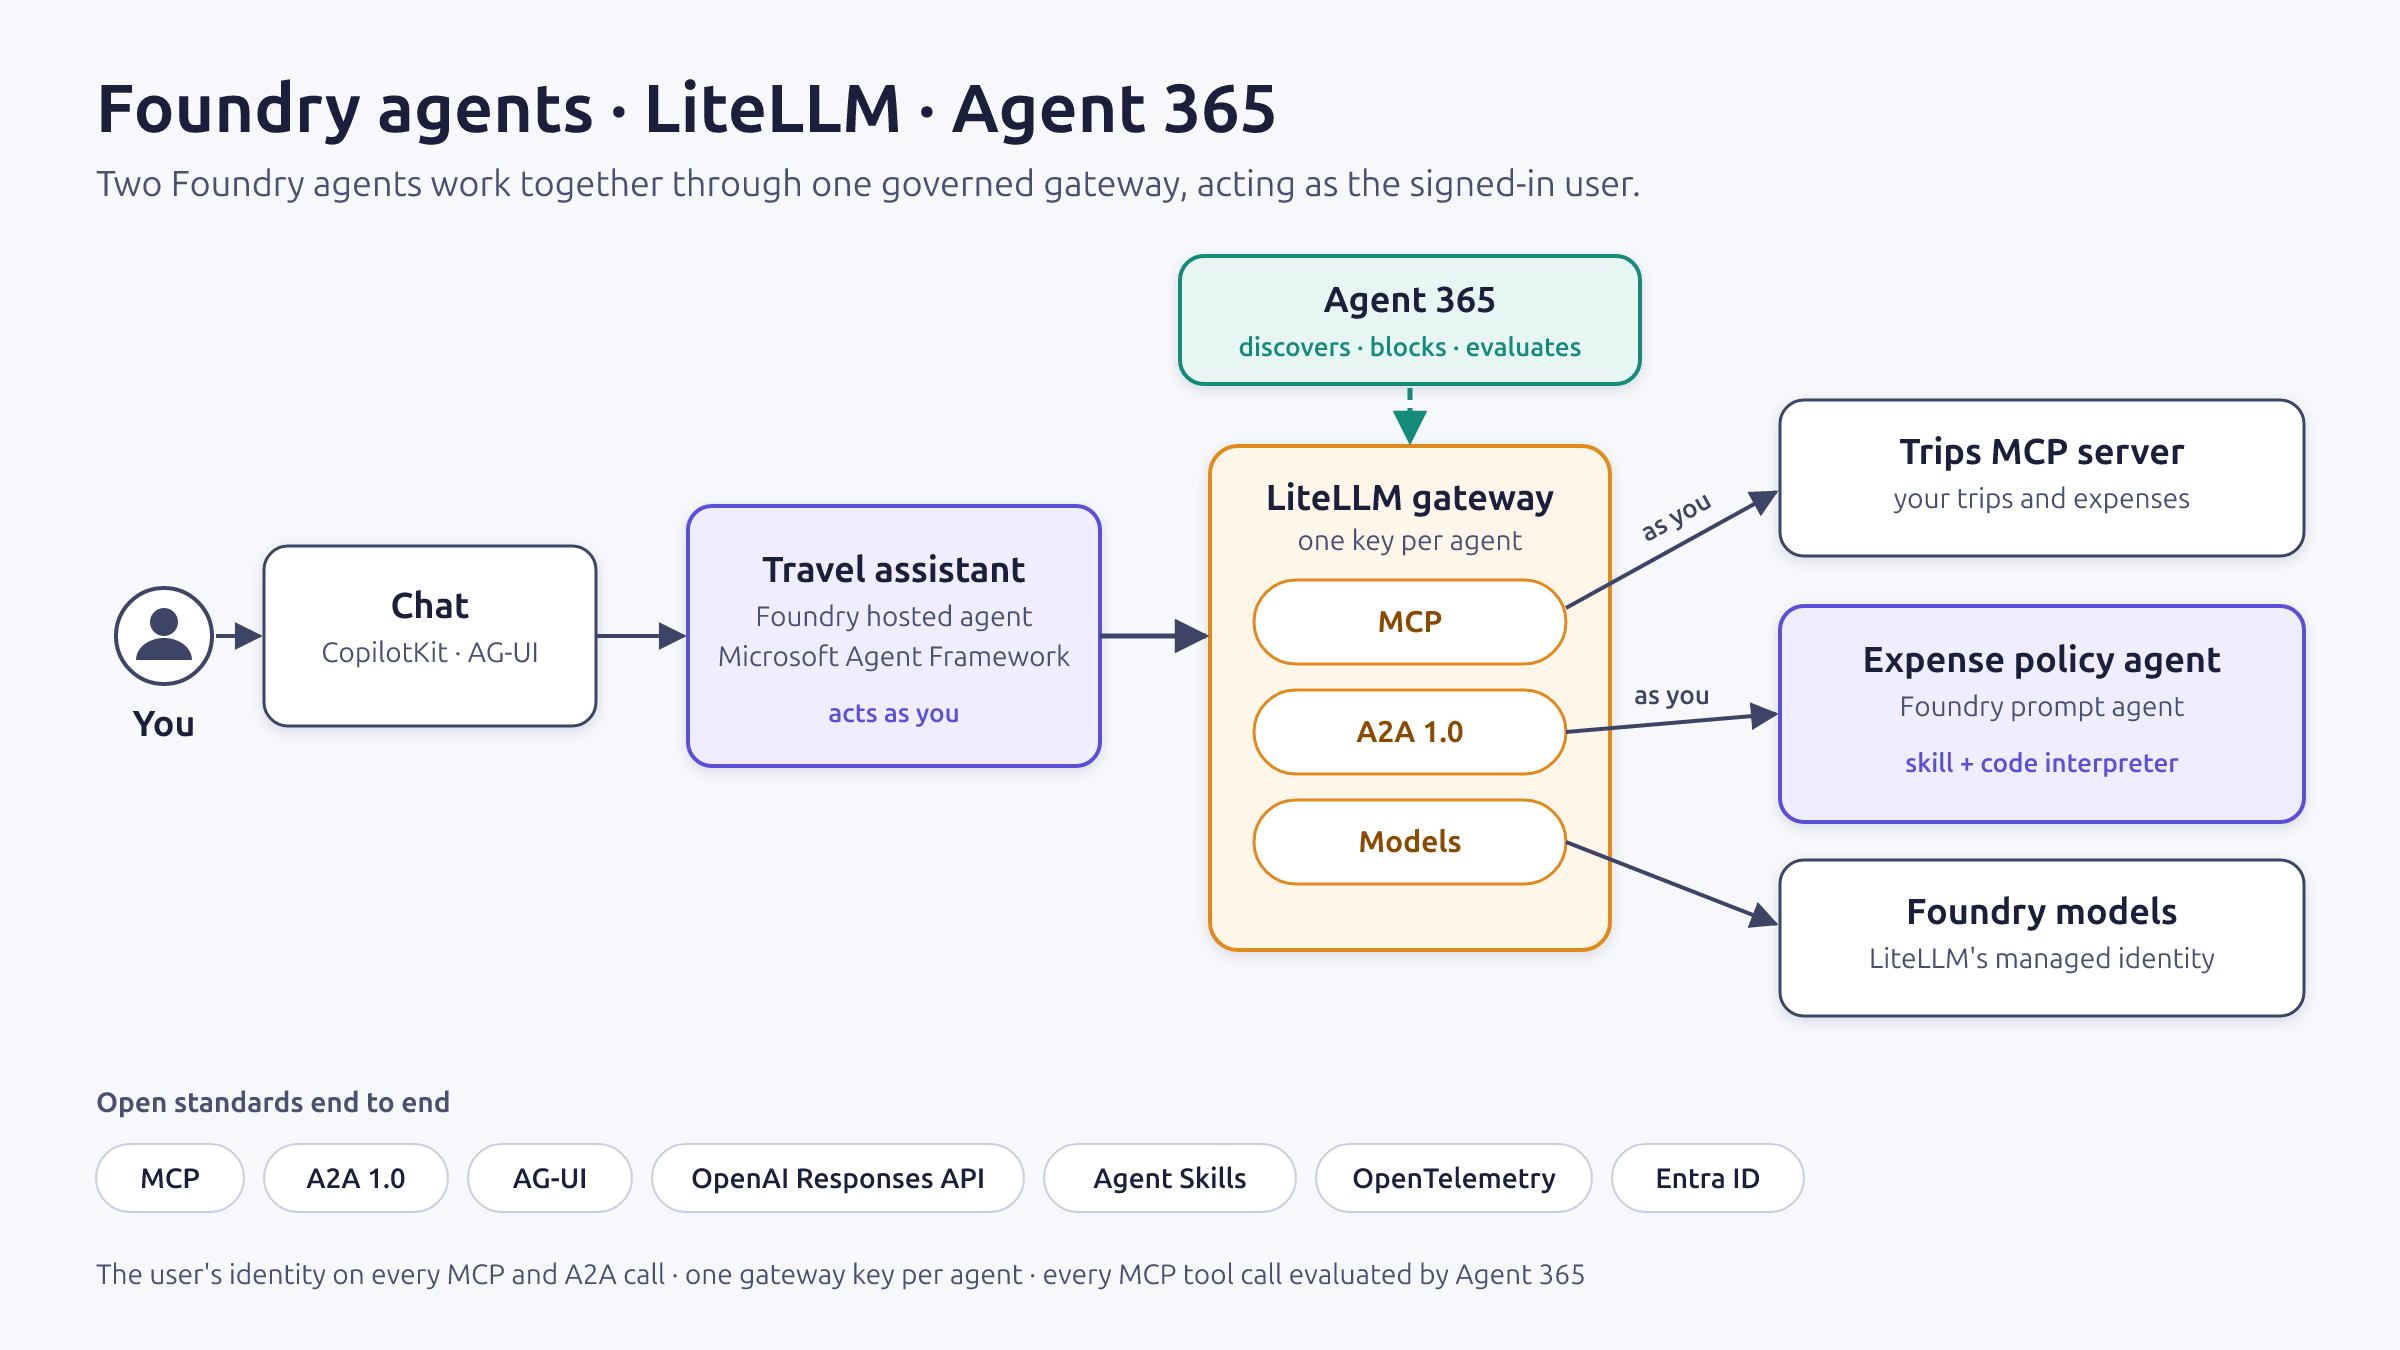
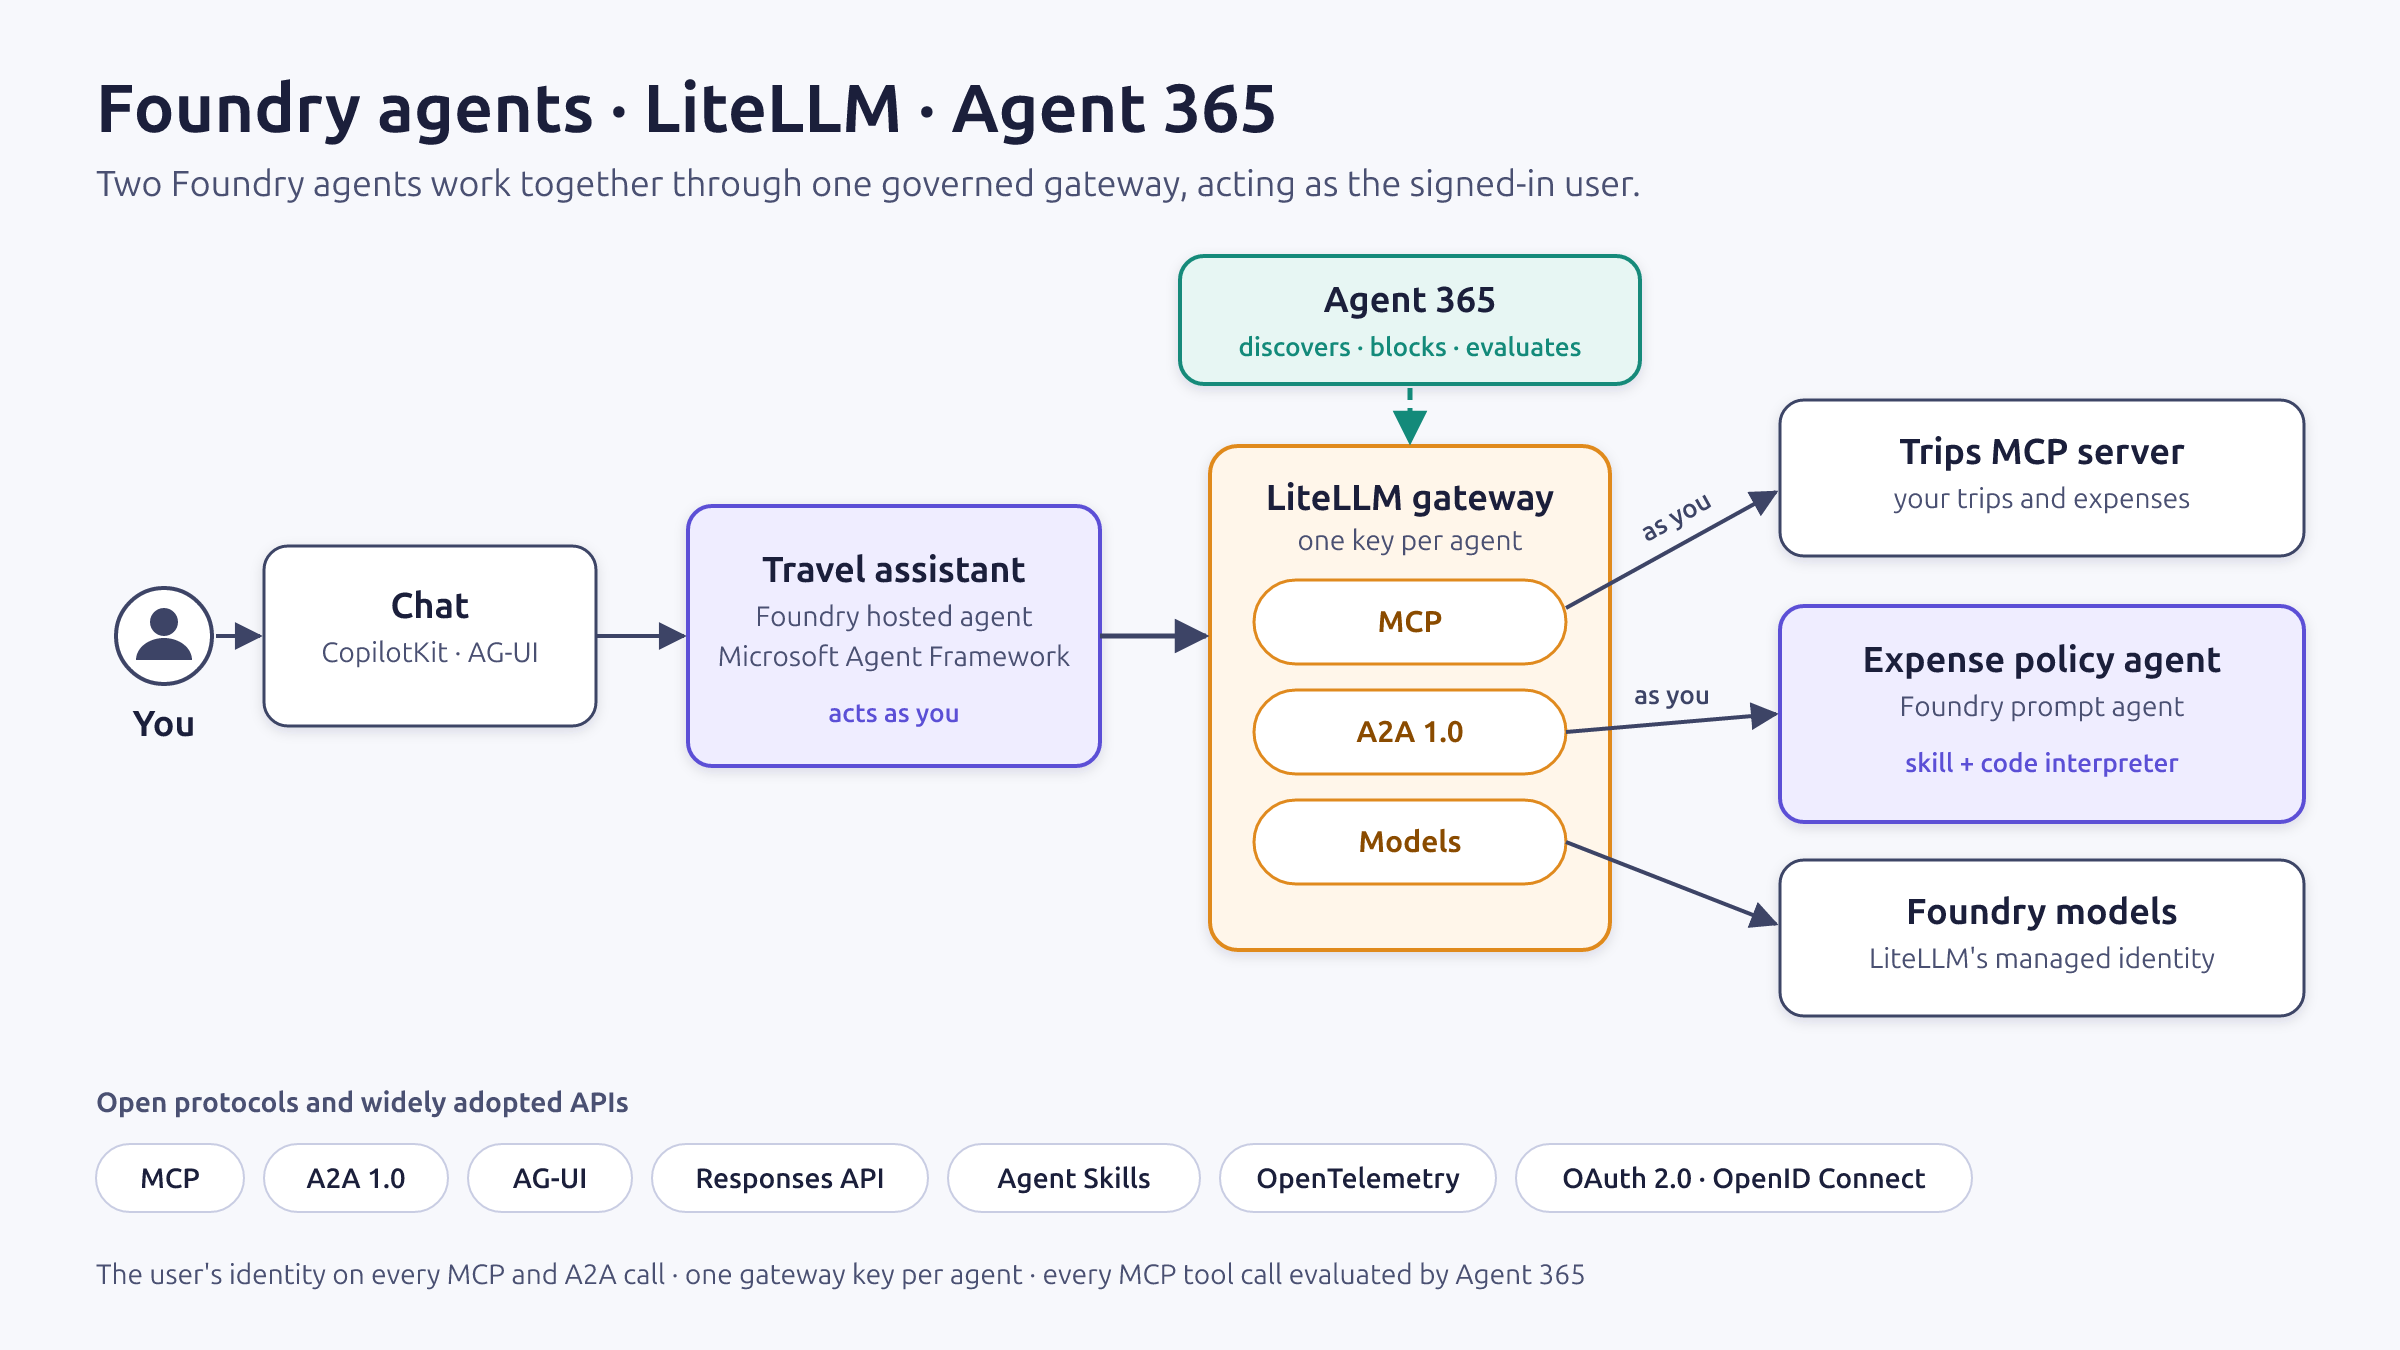
docs: list open protocols and widely adopted APIs in the overview
Entra ID is a service, not a standard: the diagram now names what the
sample relies on (OAuth 2.0 and OpenID Connect), and its heading no
longer calls the Responses API an open standard.

Changed region(s): [[0.2812, 0.84, 0.8125, 0.9022], [0.0625, 0.8089, 0.25, 0.84]]

diff --git a/README.md b/README.md
@@ -2,7 +2,7 @@
 
 ![Foundry agents with LiteLLM, governed by Agent 365: a chat talks to a Foundry hosted agent acting as the user, which reaches an MCP server and, over A2A 1.0, a Foundry prompt agent through a LiteLLM gateway that Agent 365 governs](docs/overview.svg)
 
-A working sample of two **Microsoft Foundry** agents that work together through a **LiteLLM** gateway, using open standards end to end, with **Microsoft Agent 365** governing the tools:
+A working sample of two **Microsoft Foundry** agents that work together through a **LiteLLM** gateway, using open protocols end to end, with **Microsoft Agent 365** governing the tools:
 
 - a **hosted agent** (Microsoft Agent Framework, Responses protocol) that acts **as the signed-in user**;
 - a **prompt agent** reached over **A2A 1.0**, whose policy is a skill in the open **Agent Skills** format, computed by code in the **code interpreter**;
